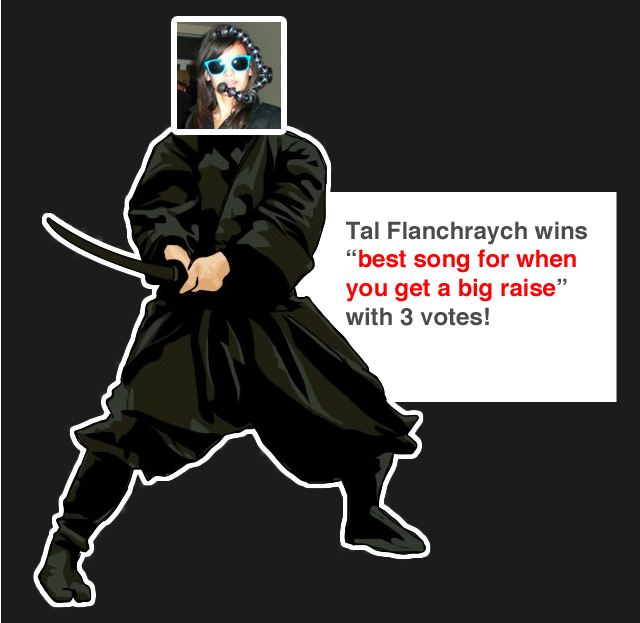
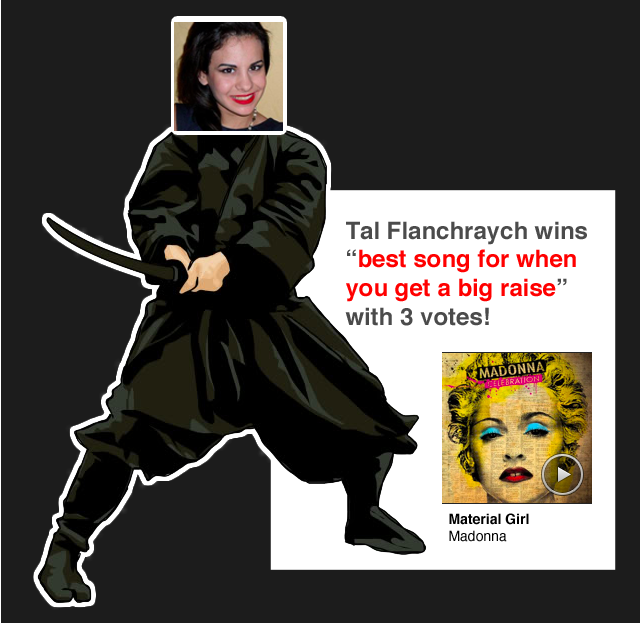
ninja change and player butt.

Changed region(s): [[0.4062, 0.549, 0.9688, 0.9149], [0.25, 0.0305, 0.4688, 0.2135], [0.5312, 0.305, 0.9688, 0.3355]]

diff --git a/index.html b/index.html
@@ -394,13 +394,13 @@
 		  // Animation complete.
     	});
   }
-
+/* SUPER FUNCTION
 $(document).ready(function() {
 	$('.voting_left').click(function() {
 		win_and_slide();
 	});
 });
-
+*/
   // Playing around with spotify API.
   // $(function(){
     var foosearch = new models.Search("Counting Crows");

diff --git a/style.css b/style.css
@@ -567,3 +567,9 @@ margin: 40px 0 0 0;
 .votebut {
 
 }
+
+.sp-player-button {
+width: 20px;
+background-image: url("images/play.png")
+
+}
